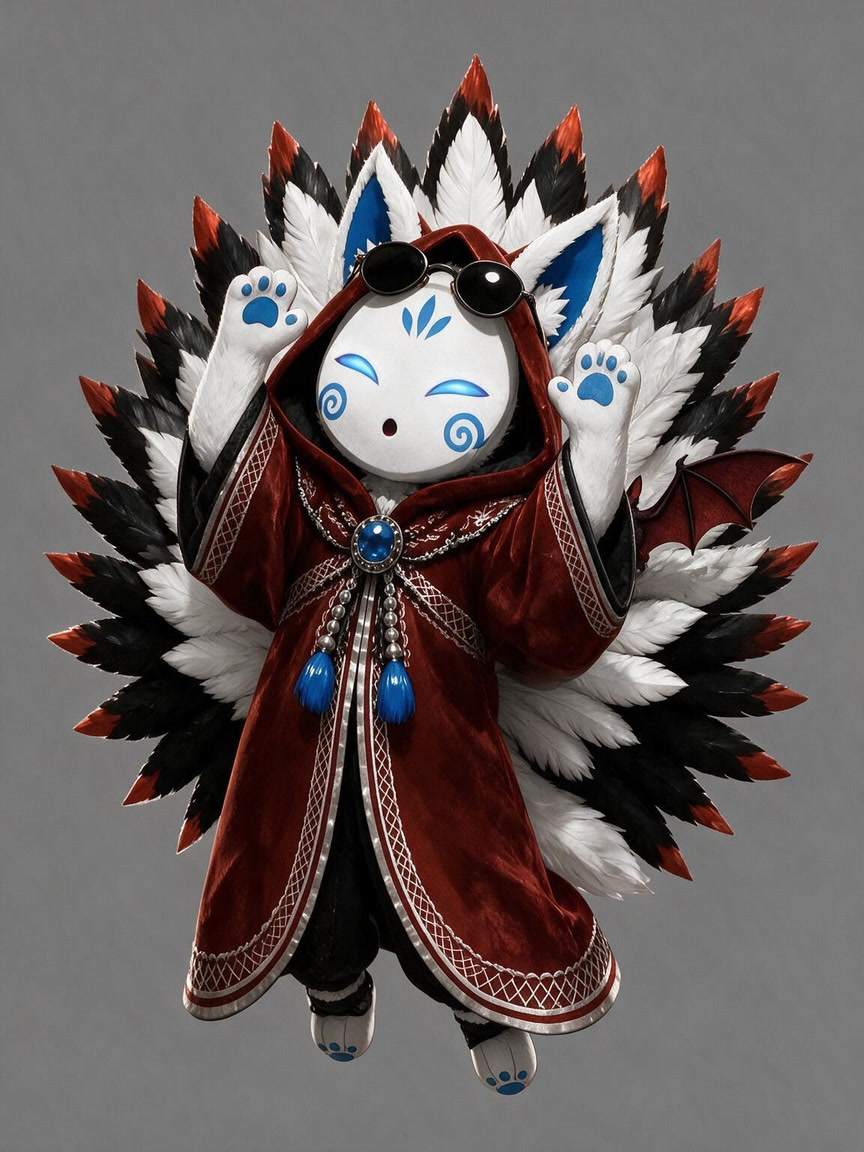
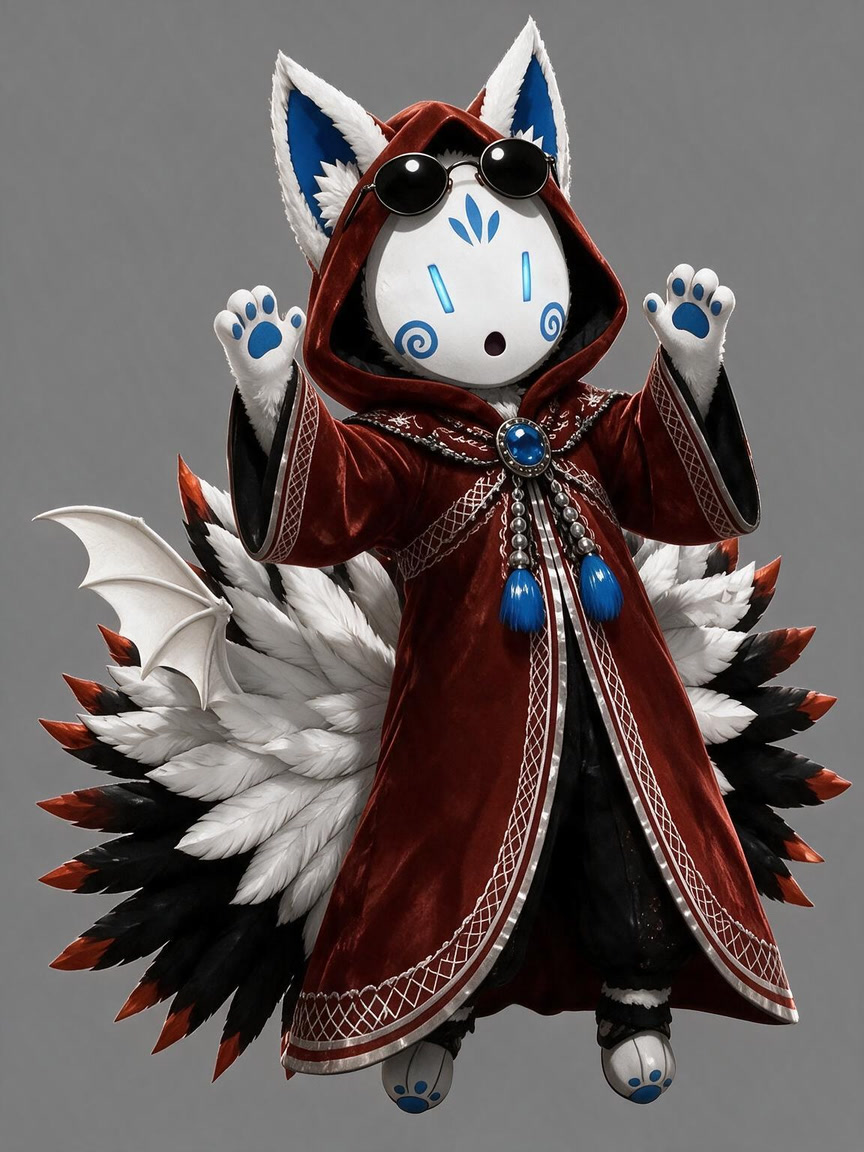
UI art: new pictures [skip ci]

diff --git a/apps/web/public/onboarding/s/last-run.md b/apps/web/public/onboarding/s/last-run.md
@@ -1,8 +1,6 @@
-# UI art — 2026-10-25T04:27:08.254Z
+# UI art — 2026-10-25T04:30:10.263Z
 
-Seedream 5.0 Pro / 4枚 / 約8円
+Seedream 5.0 Pro / 2枚 / 約8円
 
-- ✅ kimorin-x-joy
-- ✅ kimorin-x-point
-- ✅ kimorin-x-tears
-- ✅ kimorin-x-think
+- ✅ kimorin-x-shock
+- ✅ kimorin-x-talk

diff --git a/apps/web/public/atelier/raw/last-run.md b/apps/web/public/atelier/raw/last-run.md
@@ -1,4 +1,4 @@
-# UI art — 2026-10-25T04:27:08.291Z
+# UI art — 2026-10-25T04:30:10.294Z
 
 Seedream 5.0 Pro / 0枚 / 約0円
 

diff --git a/apps/web/public/dj/art/last-run.md b/apps/web/public/dj/art/last-run.md
@@ -1,4 +1,4 @@
-# UI art — 2026-10-25T04:26:18.159Z
+# UI art — 2026-10-25T04:29:25.526Z
 
 Seedream 5.0 Pro / 0枚 / 約0円
 

diff --git a/apps/web/public/ui/parts/raw/last-run.md b/apps/web/public/ui/parts/raw/last-run.md
@@ -1,4 +1,4 @@
-# UI art — 2026-10-25T04:27:08.328Z
+# UI art — 2026-10-25T04:30:10.322Z
 
 Seedream 5.0 Pro / 0枚 / 約0円
 
